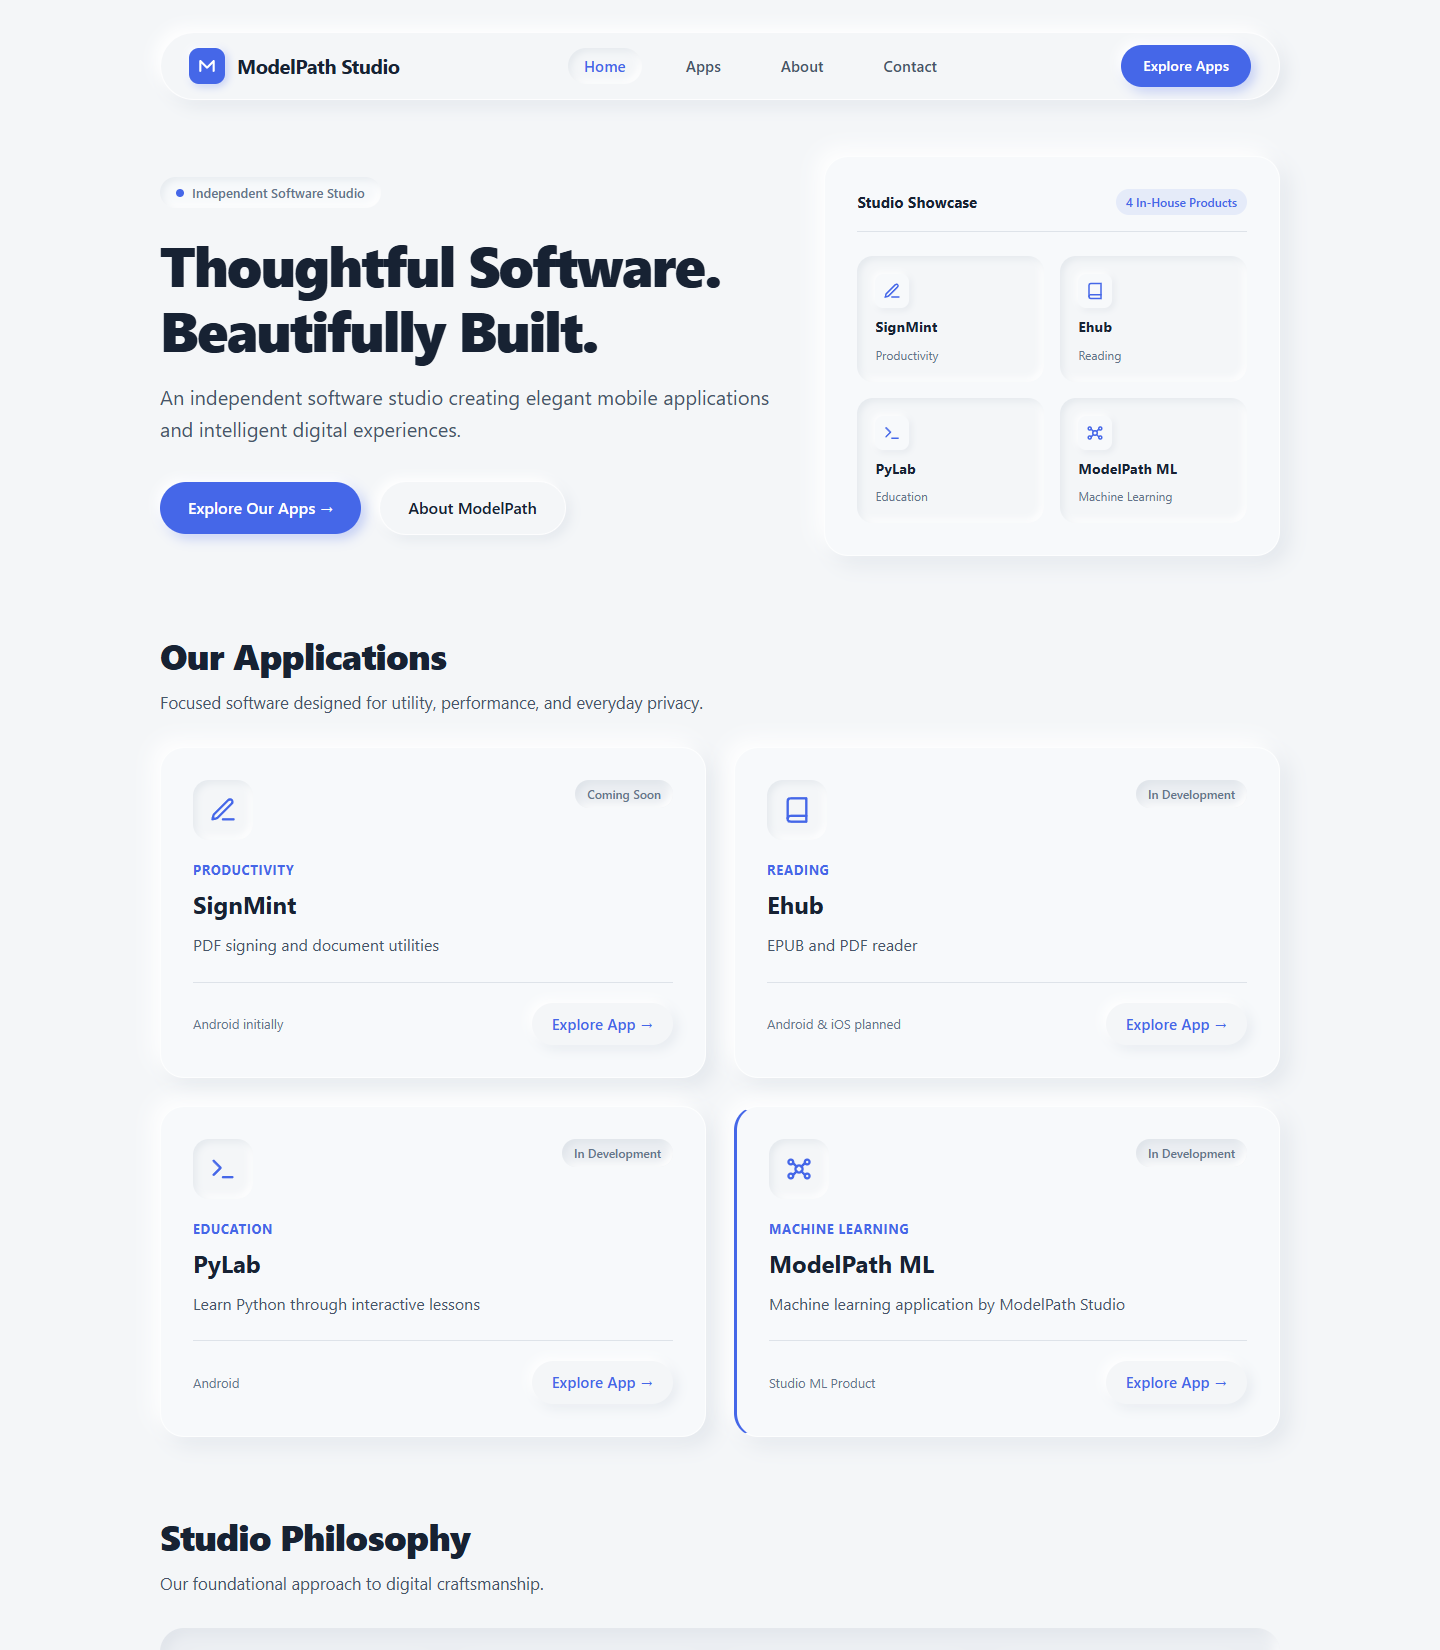
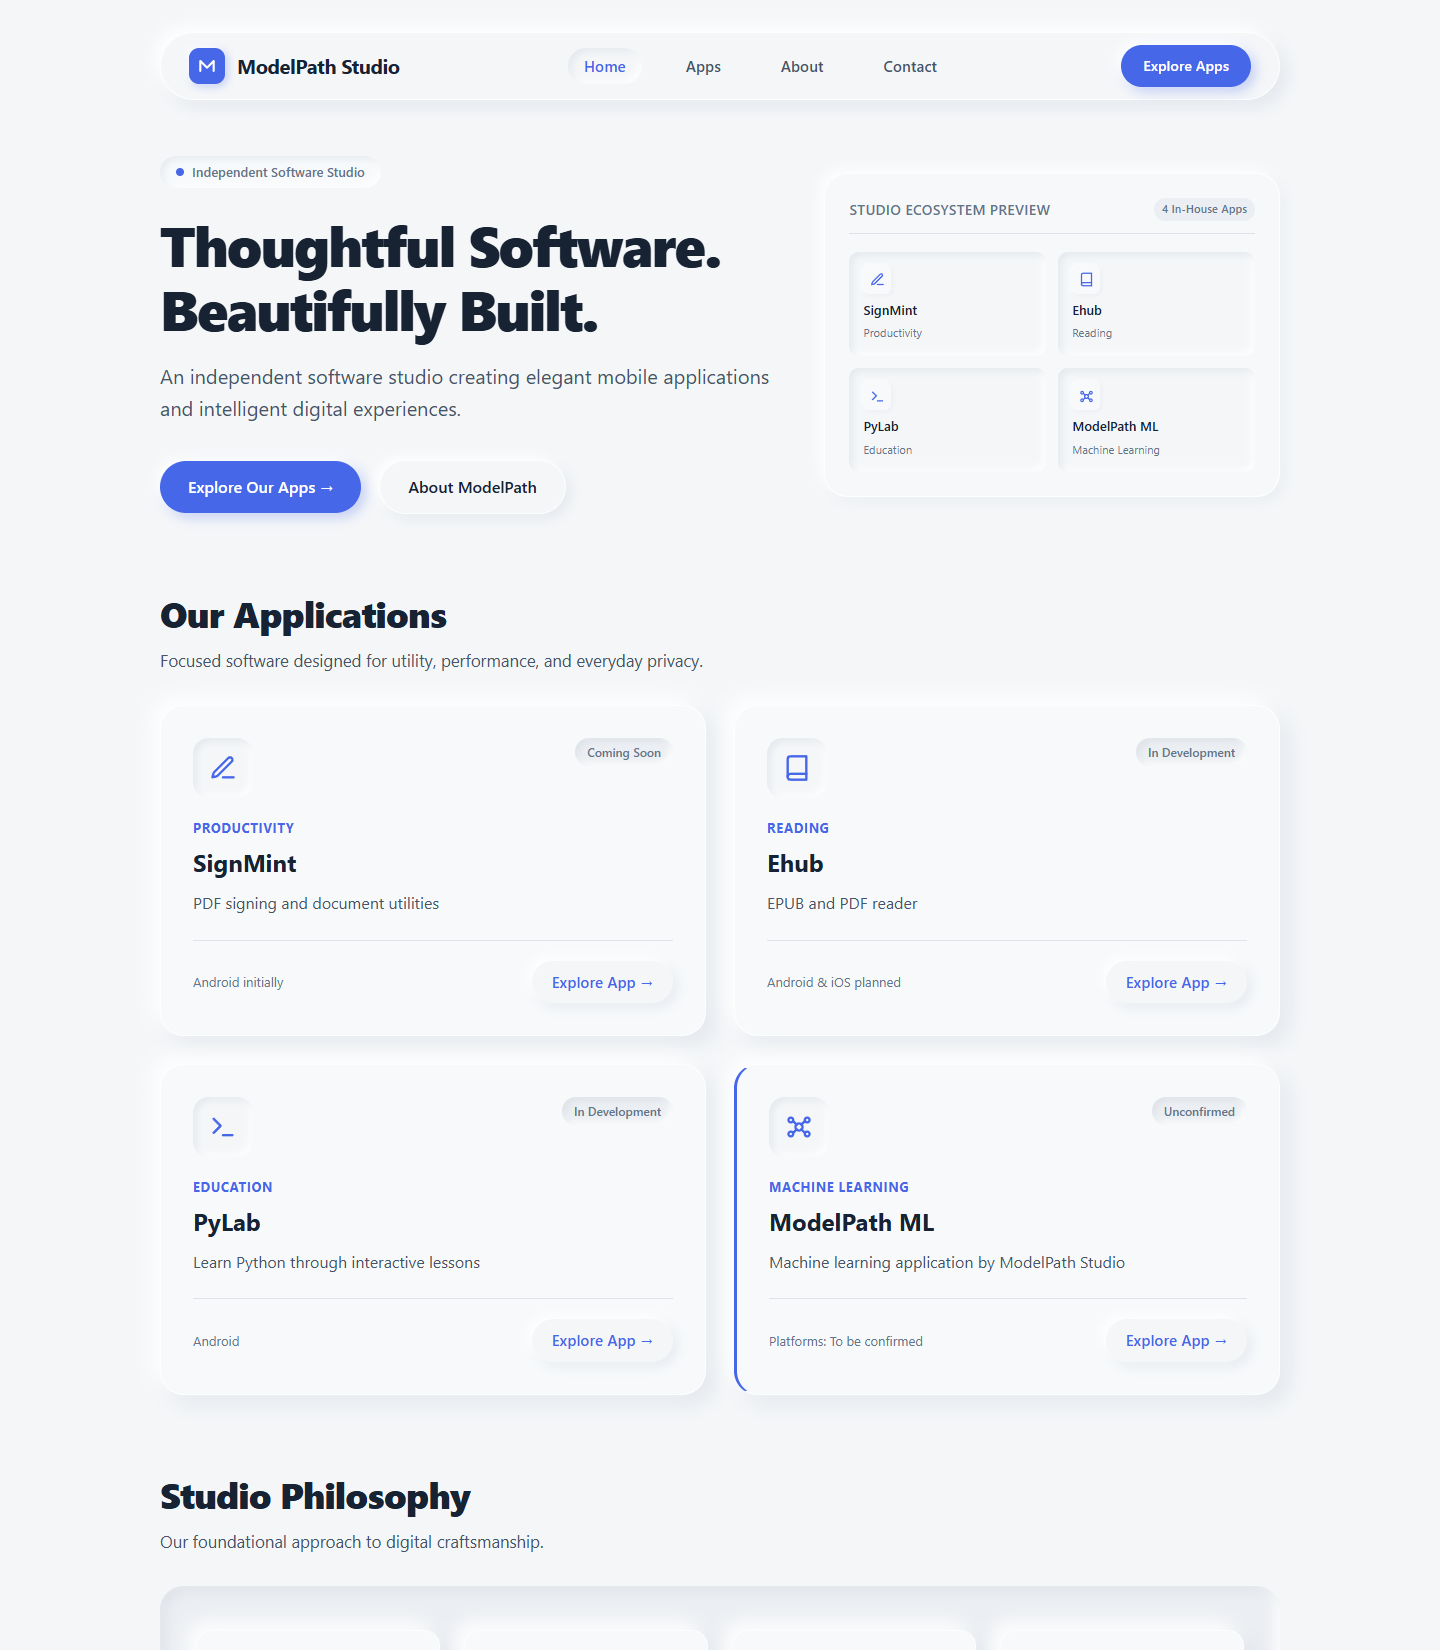
docs(gate-2): update 390px full-page mobile mockup and unconfirmed ML status

diff --git a/design/mobile-390px.html b/design/mobile-390px.html
@@ -42,7 +42,7 @@
       line-height: 1.5;
       width: 390px;
       margin: 0 auto;
-      padding: 16px 16px 36px;
+      padding: 16px 16px 48px;
     }
 
     /* --------------------------------------------------------------------------
@@ -58,7 +58,7 @@
       align-items: center;
       justify-content: space-between;
       padding: 0 16px;
-      margin-bottom: 32px;
+      margin-bottom: 28px;
       border: 1px solid rgba(255, 255, 255, 0.8);
     }
 
@@ -116,7 +116,7 @@
        Hero Section
        -------------------------------------------------------------------------- */
     .hero-container {
-      margin-bottom: 40px;
+      margin-bottom: 36px;
     }
 
     .hero-badge {
@@ -141,7 +141,7 @@
     }
 
     .hero-headline {
-      font-size: 2.2rem;
+      font-size: 2.15rem;
       font-weight: 800;
       line-height: 1.15;
       letter-spacing: -0.025em;
@@ -150,7 +150,7 @@
     }
 
     .hero-subheading {
-      font-size: 1rem;
+      font-size: 0.975rem;
       color: var(--text-body);
       line-height: 1.55;
       margin-bottom: 24px;
@@ -160,6 +160,7 @@
       display: flex;
       flex-direction: column;
       gap: 12px;
+      margin-bottom: 28px;
     }
 
     .btn-primary {
@@ -191,6 +192,73 @@
       border: 1px solid rgba(255, 255, 255, 0.8);
     }
 
+    /* Subordinate Hero Mini Showcase */
+    .hero-mini-showcase {
+      background: rgba(247, 249, 251, 0.6);
+      border-radius: var(--radius-md);
+      box-shadow: -3px -3px 8px #FFFFFF, 3px 3px 8px rgba(169, 180, 196, 0.16);
+      padding: 16px;
+      border: 1px solid rgba(255, 255, 255, 0.8);
+    }
+
+    .mini-showcase-header {
+      display: flex;
+      justify-content: space-between;
+      align-items: center;
+      margin-bottom: 12px;
+      padding-bottom: 8px;
+      border-bottom: 1px solid var(--border-subtle);
+    }
+
+    .mini-showcase-title {
+      font-size: 0.75rem;
+      font-weight: 600;
+      color: var(--text-muted);
+      text-transform: uppercase;
+      letter-spacing: 0.04em;
+    }
+
+    .mini-showcase-badge {
+      font-size: 0.6875rem;
+      color: var(--text-muted);
+      background: var(--bg-inset);
+      padding: 2px 7px;
+      border-radius: var(--radius-pill);
+    }
+
+    .mini-showcase-grid {
+      display: grid;
+      grid-template-columns: repeat(2, 1fr);
+      gap: 10px;
+    }
+
+    .mini-tile {
+      background: var(--bg-raised);
+      border-radius: 6px;
+      box-shadow: var(--shadow-inset-box);
+      padding: 10px;
+      display: flex;
+      align-items: center;
+      gap: 8px;
+    }
+
+    .mini-tile-icon {
+      width: 22px;
+      height: 22px;
+      border-radius: 4px;
+      background: var(--bg-surface);
+      display: flex;
+      align-items: center;
+      justify-content: center;
+      box-shadow: -1px -1px 3px #FFF, 1px 1px 3px rgba(169, 180, 196, 0.2);
+    }
+
+    .mini-tile-name {
+      font-size: 0.75rem;
+      font-weight: 600;
+      color: var(--text-heading);
+    }
+
     /* --------------------------------------------------------------------------
        Our Applications Section (4 Stacked Responsive Cards)
        -------------------------------------------------------------------------- */
@@ -207,7 +275,7 @@
     }
 
     .section-desc {
-      font-size: 0.9rem;
+      font-size: 0.875rem;
       color: var(--text-body);
       margin-bottom: 20px;
     }
@@ -414,9 +482,43 @@
       <a href="/apps/" class="btn-primary">Explore Our Apps &rarr;</a>
       <a href="/about/" class="btn-secondary">About ModelPath</a>
     </div>
+
+    <!-- Visually Subordinate Mini Showcase -->
+    <div class="hero-mini-showcase">
+      <div class="mini-showcase-header">
+        <span class="mini-showcase-title">Ecosystem Preview</span>
+        <span class="mini-showcase-badge">4 In-House Apps</span>
+      </div>
+      <div class="mini-showcase-grid">
+        <div class="mini-tile">
+          <div class="mini-tile-icon">
+            <svg width="12" height="12" viewBox="0 0 24 24" fill="none" stroke="#4567E8" stroke-width="2.5" stroke-linecap="round"><path d="M12 20h9"/><path d="M16.5 3.5a2.121 2.121 0 0 1 3 3L7 19l-4 1 1-4L16.5 3.5z"/></svg>
+          </div>
+          <span class="mini-tile-name">SignMint</span>
+        </div>
+        <div class="mini-tile">
+          <div class="mini-tile-icon">
+            <svg width="12" height="12" viewBox="0 0 24 24" fill="none" stroke="#4567E8" stroke-width="2.5" stroke-linecap="round"><path d="M4 19.5A2.5 2.5 0 0 1 6.5 17H20"/><path d="M6.5 2H20v20H6.5A2.5 2.5 0 0 1 4 19.5v-15A2.5 2.5 0 0 1 6.5 2z"/></svg>
+          </div>
+          <span class="mini-tile-name">Ehub</span>
+        </div>
+        <div class="mini-tile">
+          <div class="mini-tile-icon">
+            <svg width="12" height="12" viewBox="0 0 24 24" fill="none" stroke="#4567E8" stroke-width="2.5" stroke-linecap="round"><polyline points="4 17 10 11 4 5"/><line x1="12" y1="19" x2="20" y2="19"/></svg>
+          </div>
+          <span class="mini-tile-name">PyLab</span>
+        </div>
+        <div class="mini-tile">
+          <div class="mini-tile-icon">
+            <svg width="12" height="12" viewBox="0 0 24 24" fill="none" stroke="#4567E8" stroke-width="2.5" stroke-linecap="round"><circle cx="12" cy="12" r="3"/><circle cx="19" cy="6" r="2"/><circle cx="5" cy="6" r="2"/><circle cx="19" cy="18" r="2"/><circle cx="5" cy="18" r="2"/></svg>
+          </div>
+          <span class="mini-tile-name">ModelPath ML</span>
+        </div>
+      </div>
+    </div>
   </section>
 
-  <!-- Our Applications Section -->
+  <!-- Our Applications Section (All 4 Cards Fully Visible) -->
   <section class="apps-section">
     <h2 class="section-title">Our Applications</h2>
     <p class="section-desc">Focused software designed for utility, performance, and everyday privacy.</p>
@@ -482,7 +584,7 @@
         </div>
       </article>
 
-      <!-- 4. ModelPath ML -->
+      <!-- 4. ModelPath ML (Unconfirmed Status) -->
       <article class="app-card" style="border-left: 3px solid var(--accent-blue);">
         <div class="app-card-top">
           <div class="app-icon-capsule">
@@ -498,20 +600,20 @@
               <line x1="17" y1="17" x2="14" y2="14"/>
             </svg>
           </div>
-          <span class="availability-chip">In Development</span>
+          <span class="availability-chip">Unconfirmed</span>
         </div>
         <div class="app-category">Machine Learning</div>
         <h3 class="app-title">ModelPath ML</h3>
         <p class="app-description">Machine learning application by ModelPath Studio</p>
         <div class="app-card-bottom">
-          <span style="font-size: 0.75rem; color: var(--text-muted);">Studio ML Product</span>
+          <span style="font-size: 0.75rem; color: var(--text-muted);">Platforms: To be confirmed</span>
           <a href="/apps/modelpath-ml/" class="btn-explore-app">Explore App &rarr;</a>
         </div>
       </article>
     </div>
   </section>
 
-  <!-- Studio Philosophy Section -->
+  <!-- Studio Philosophy Section (Recessed Inset Well) -->
   <section class="philosophy-section">
     <h2 class="section-title">Studio Philosophy</h2>
     <div class="philosophy-well">

diff --git a/design/desktop-1440px.html b/design/desktop-1440px.html
@@ -211,13 +211,13 @@
       border: 1px solid rgba(255, 255, 255, 0.8);
     }
 
-    /* Hero Abstract Tactile Composition */
+    /* Subordinate Hero Miniature Showcase */
     .hero-visual-card {
-      background: var(--bg-surface);
+      background: rgba(247, 249, 251, 0.7);
       border-radius: var(--radius-lg);
-      box-shadow: var(--shadow-card);
-      padding: 32px;
-      border: 1px solid rgba(255, 255, 255, 0.8);
+      box-shadow: -4px -4px 12px #FFFFFF, 4px 4px 12px rgba(169, 180, 196, 0.16);
+      padding: 24px;
+      border: 1px solid rgba(255, 255, 255, 0.9);
       position: relative;
     }
 
@@ -225,61 +225,63 @@
       display: flex;
       align-items: center;
       justify-content: space-between;
-      margin-bottom: 24px;
-      padding-bottom: 16px;
+      margin-bottom: 18px;
+      padding-bottom: 12px;
       border-bottom: 1px solid var(--border-subtle);
     }
 
     .composition-title {
-      font-size: 0.95rem;
-      font-weight: 700;
-      color: var(--text-heading);
+      font-size: 0.85rem;
+      font-weight: 600;
+      color: var(--text-muted);
+      text-transform: uppercase;
+      letter-spacing: 0.04em;
     }
 
     .composition-badge {
-      font-size: 0.75rem;
+      font-size: 0.7rem;
       font-weight: 600;
-      color: var(--accent-blue);
-      background: rgba(69, 103, 232, 0.1);
-      padding: 4px 10px;
+      color: var(--text-muted);
+      background: var(--bg-inset);
+      padding: 3px 8px;
       border-radius: var(--radius-pill);
     }
 
     .composition-tiles {
       display: grid;
       grid-template-columns: repeat(2, 1fr);
-      gap: 16px;
+      gap: 12px;
     }
 
     .comp-tile {
       background: var(--bg-raised);
-      border-radius: var(--radius-md);
+      border-radius: var(--radius-sm);
       box-shadow: var(--shadow-inset-box);
-      padding: 18px;
+      padding: 14px;
       display: flex;
       flex-direction: column;
-      gap: 8px;
+      gap: 6px;
     }
 
     .comp-tile-icon {
-      width: 34px;
-      height: 34px;
-      border-radius: 8px;
+      width: 28px;
+      height: 28px;
+      border-radius: 6px;
       background: var(--bg-surface);
-      box-shadow: -2px -2px 6px #FFF, 2px 2px 6px rgba(169, 180, 196, 0.25);
+      box-shadow: -1px -1px 3px #FFF, 1px 1px 4px rgba(169, 180, 196, 0.2);
       display: flex;
       align-items: center;
       justify-content: center;
     }
 
     .comp-tile-name {
-      font-size: 0.9rem;
-      font-weight: 700;
+      font-size: 0.8125rem;
+      font-weight: 600;
       color: var(--text-heading);
     }
 
     .comp-tile-meta {
-      font-size: 0.75rem;
+      font-size: 0.7rem;
       color: var(--text-muted);
     }
 
@@ -517,37 +519,37 @@
       </div>
     </div>
 
-    <!-- Hero Abstract Studio Showcase Visual -->
+    <!-- Visually Subordinate Miniature Showcase -->
     <div class="hero-visual-card">
       <div class="composition-header">
-        <span class="composition-title">Studio Showcase</span>
-        <span class="composition-badge">4 In-House Products</span>
+        <span class="composition-title">Studio Ecosystem Preview</span>
+        <span class="composition-badge">4 In-House Apps</span>
       </div>
       <div class="composition-tiles">
         <div class="comp-tile">
           <div class="comp-tile-icon">
-            <svg width="18" height="18" viewBox="0 0 24 24" fill="none" stroke="#4567E8" stroke-width="2" stroke-linecap="round"><path d="M12 20h9"/><path d="M16.5 3.5a2.121 2.121 0 0 1 3 3L7 19l-4 1 1-4L16.5 3.5z"/></svg>
+            <svg width="15" height="15" viewBox="0 0 24 24" fill="none" stroke="#4567E8" stroke-width="2" stroke-linecap="round"><path d="M12 20h9"/><path d="M16.5 3.5a2.121 2.121 0 0 1 3 3L7 19l-4 1 1-4L16.5 3.5z"/></svg>
           </div>
           <span class="comp-tile-name">SignMint</span>
           <span class="comp-tile-meta">Productivity</span>
         </div>
         <div class="comp-tile">
           <div class="comp-tile-icon">
-            <svg width="18" height="18" viewBox="0 0 24 24" fill="none" stroke="#4567E8" stroke-width="2" stroke-linecap="round"><path d="M4 19.5A2.5 2.5 0 0 1 6.5 17H20"/><path d="M6.5 2H20v20H6.5A2.5 2.5 0 0 1 4 19.5v-15A2.5 2.5 0 0 1 6.5 2z"/></svg>
+            <svg width="15" height="15" viewBox="0 0 24 24" fill="none" stroke="#4567E8" stroke-width="2" stroke-linecap="round"><path d="M4 19.5A2.5 2.5 0 0 1 6.5 17H20"/><path d="M6.5 2H20v20H6.5A2.5 2.5 0 0 1 4 19.5v-15A2.5 2.5 0 0 1 6.5 2z"/></svg>
           </div>
           <span class="comp-tile-name">Ehub</span>
           <span class="comp-tile-meta">Reading</span>
         </div>
         <div class="comp-tile">
           <div class="comp-tile-icon">
-            <svg width="18" height="18" viewBox="0 0 24 24" fill="none" stroke="#4567E8" stroke-width="2" stroke-linecap="round"><polyline points="4 17 10 11 4 5"/><line x1="12" y1="19" x2="20" y2="19"/></svg>
+            <svg width="15" height="15" viewBox="0 0 24 24" fill="none" stroke="#4567E8" stroke-width="2" stroke-linecap="round"><polyline points="4 17 10 11 4 5"/><line x1="12" y1="19" x2="20" y2="19"/></svg>
           </div>
           <span class="comp-tile-name">PyLab</span>
           <span class="comp-tile-meta">Education</span>
         </div>
         <div class="comp-tile">
           <div class="comp-tile-icon">
-            <svg width="18" height="18" viewBox="0 0 24 24" fill="none" stroke="#4567E8" stroke-width="2" stroke-linecap="round"><circle cx="12" cy="12" r="3"/><circle cx="19" cy="6" r="2"/><circle cx="5" cy="6" r="2"/><circle cx="19" cy="18" r="2"/><circle cx="5" cy="18" r="2"/><line x1="7" y1="7" x2="10" y2="10"/><line x1="17" y1="7" x2="14" y2="10"/><line x1="7" y1="17" x2="10" y2="14"/><line x1="17" y1="17" x2="14" y2="14"/></svg>
+            <svg width="15" height="15" viewBox="0 0 24 24" fill="none" stroke="#4567E8" stroke-width="2" stroke-linecap="round"><circle cx="12" cy="12" r="3"/><circle cx="19" cy="6" r="2"/><circle cx="5" cy="6" r="2"/><circle cx="19" cy="18" r="2"/><circle cx="5" cy="18" r="2"/><line x1="7" y1="7" x2="10" y2="10"/><line x1="17" y1="7" x2="14" y2="10"/><line x1="7" y1="17" x2="10" y2="14"/><line x1="17" y1="17" x2="14" y2="14"/></svg>
           </div>
           <span class="comp-tile-name">ModelPath ML</span>
           <span class="comp-tile-meta">Machine Learning</span>
@@ -640,13 +642,13 @@
               <line x1="17" y1="17" x2="14" y2="14"/>
             </svg>
           </div>
-          <span class="availability-chip">In Development</span>
+          <span class="availability-chip">Unconfirmed</span>
         </div>
         <div class="app-category">Machine Learning</div>
         <h3 class="app-title">ModelPath ML</h3>
         <p class="app-description">Machine learning application by ModelPath Studio</p>
         <div class="app-card-bottom">
-          <span style="font-size: 0.8125rem; color: var(--text-muted);">Studio ML Product</span>
+          <span style="font-size: 0.8125rem; color: var(--text-muted);">Platforms: To be confirmed</span>
           <a href="/apps/modelpath-ml/" class="btn-explore-app">Explore App &rarr;</a>
         </div>
       </article>
